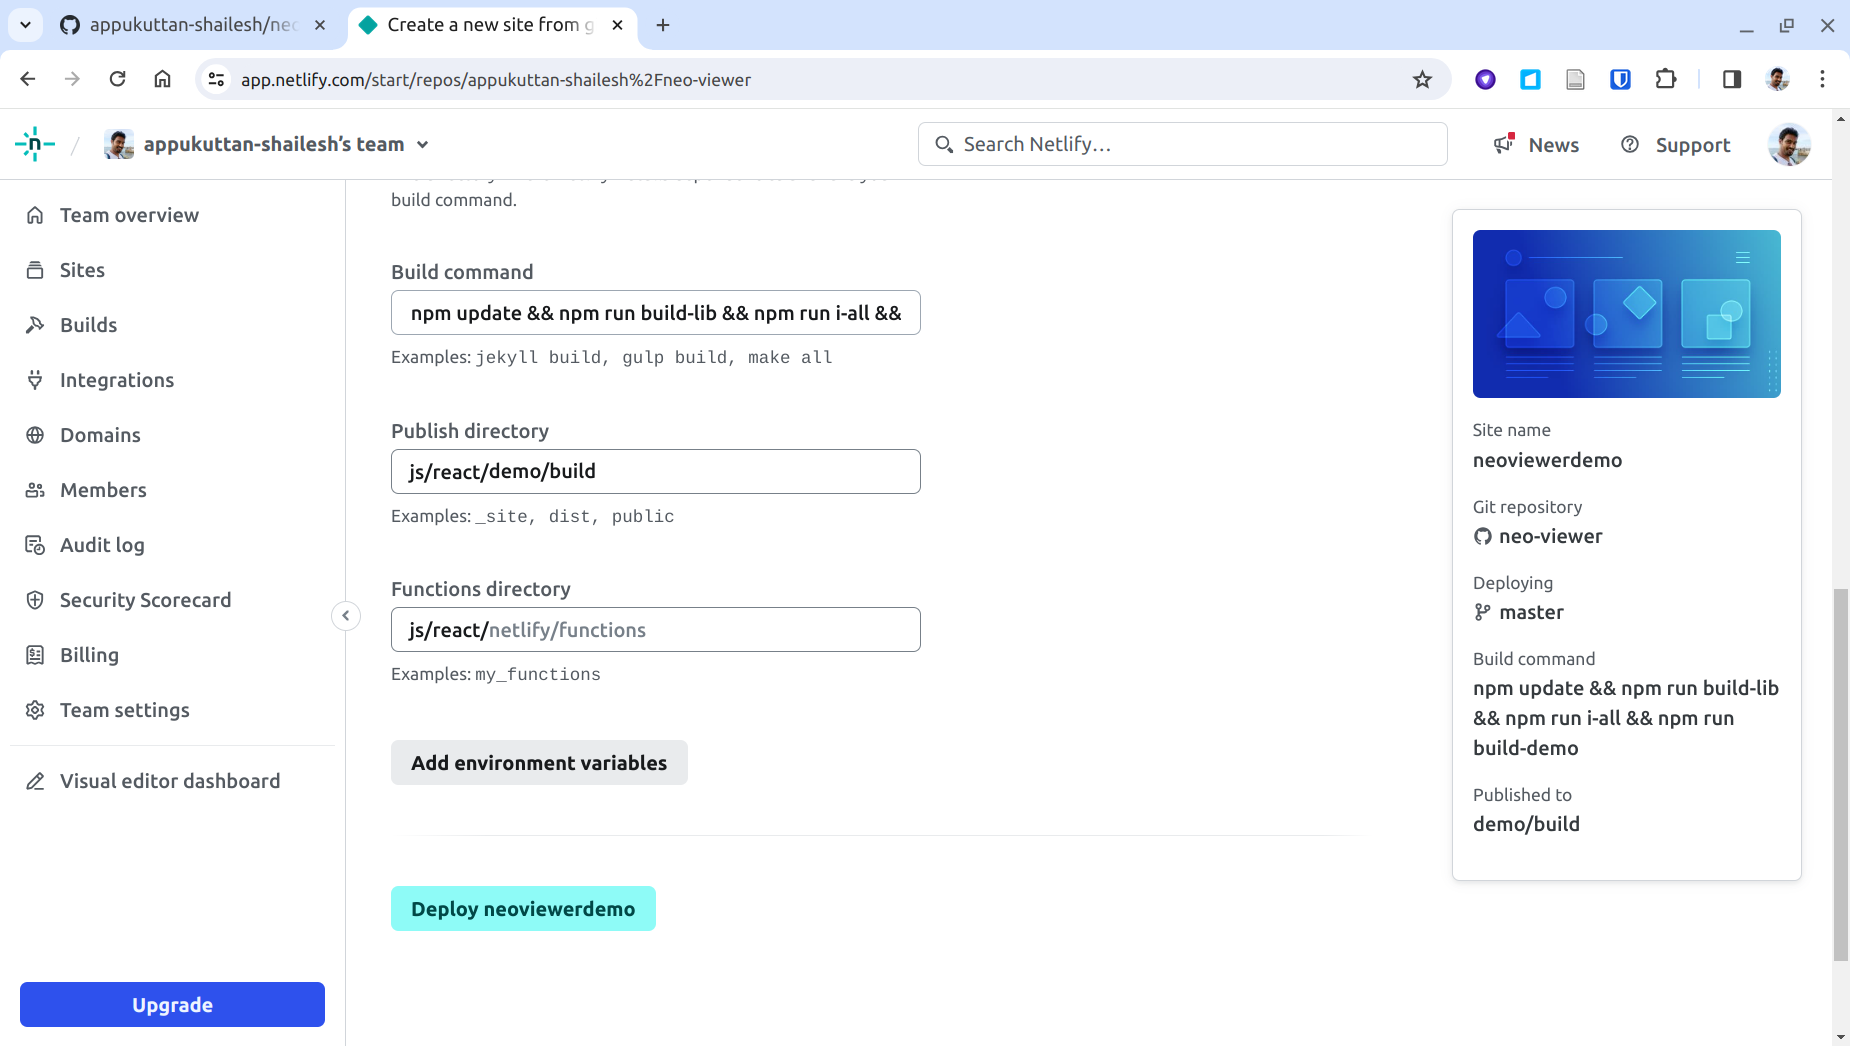
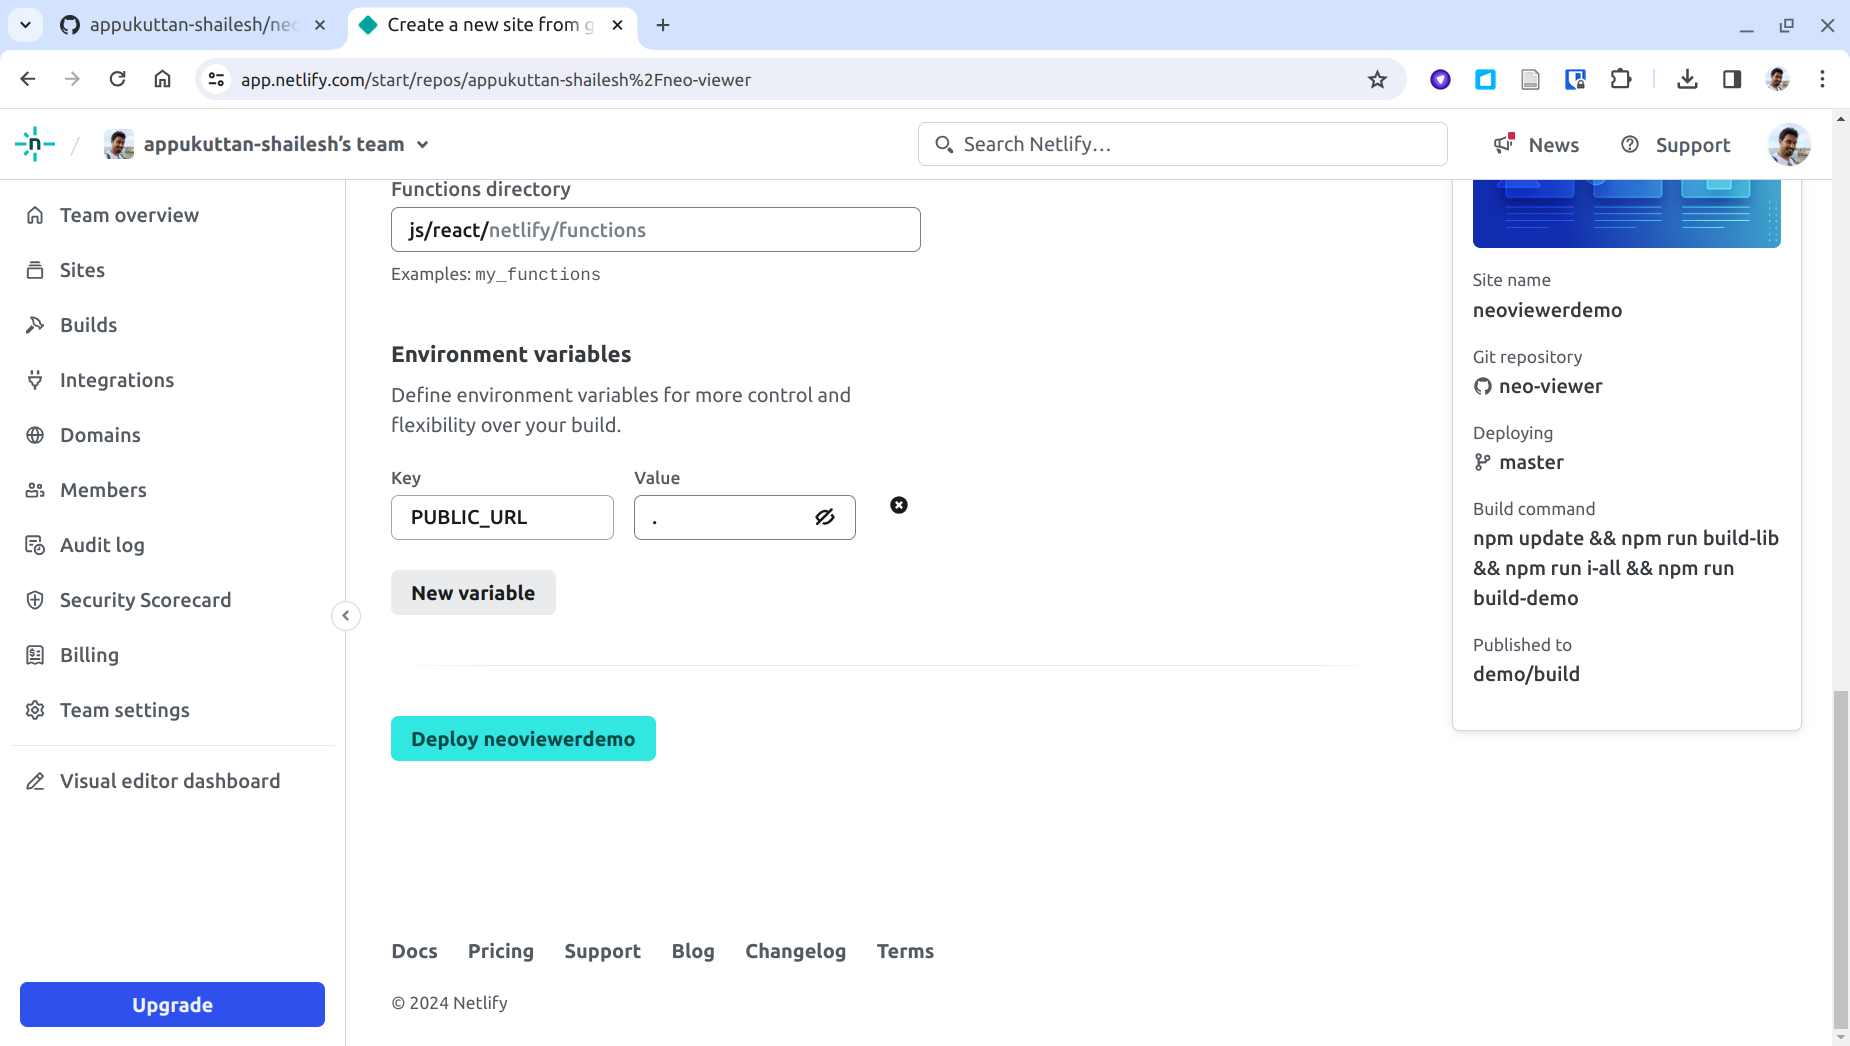
Update guide for react demo

diff --git a/homepage/guide_react_deploy.html b/homepage/guide_react_deploy.html
@@ -191,26 +191,47 @@
 
             <h5 style="line-height: 49.2px">Step 20:</h5>
             <div class="row">
+                Scroll down the page, and click on the 'Add environment variables' button.
+                <img src="./imgs/screenshots/react_demo/img_24_01.png" alt="Deploy app" style="width: 100%; padding: 15px;"/>
+                <br/>
+            </div>
+
+            <h5 style="line-height: 49.2px">Step 21:</h5>
+            <div class="row">
+                Next click on the 'New variable' button that just appeared. This will allow you to add a new environment variable.
+                <img src="./imgs/screenshots/react_demo/img_24_02.png" alt="Deploy app" style="width: 100%; padding: 15px;"/>
+                <br/>
+            </div>
+
+            <h5 style="line-height: 49.2px">Step 22:</h5>
+            <div class="row">
+                A new row will have appeared where you can specify the environment variable. Set the key as <code>PUBLIC_URL</code> and value as <code>.</code> (i.e. just a dot).
+                <img src="./imgs/screenshots/react_demo/img_24_03.png" alt="Deploy app" style="width: 100%; padding: 15px;"/>
+                <br/>
+            </div>
+
+            <h5 style="line-height: 49.2px">Step 23:</h5>
+            <div class="row">
                 Finally, click on 'Deploy SITENAME' (i.e. Deploy neoviewerdemo in this case) at the bottom of the page to deploy the app.
                 <img src="./imgs/screenshots/react_demo/img_25.png" alt="Deploy app" style="width: 100%; padding: 15px;"/>
                 <br/>
             </div>
 
-            <h5 style="line-height: 49.2px">Step 21:</h5>
+            <h5 style="line-height: 49.2px">Step 24:</h5>
             <div class="row">
                 This will take a few minutes to complete. You shall see the deploy status go through various stages, such as 'Starting Up', 'Building', and so on. Once completed successfully, the status will be set as 'published', as shown below. You can now visit the URL of your site (in this case: https://neoviewerdemo.netlify.app) to see the deployed app.
                 <img src="./imgs/screenshots/react_demo/img_27.png" alt="Deploy complete" style="width: 100%; padding: 15px;"/>
                 <br/>
             </div>
 
-            <h5 style="line-height: 49.2px">Step 22:</h5>
+            <h5 style="line-height: 49.2px">Step 25:</h5>
             <div class="row">
                 The deployed app is now available at the specified URL. You can share this URL with others to show them your app. You can also make changes to the app, via changes to your fork of the project's GitHub directory, and redeploy it at any time.
                 <img src="./imgs/screenshots/react_demo/img_28.png" alt="Visit app" style="width: 100%; padding: 15px;"/>
                 <br/>
             </div>
 
-            <h5 style="line-height: 49.2px">Step 23:</h5>
+            <h5 style="line-height: 49.2px">Step 26:</h5>
             <div class="row">
                 As you scroll down, you see the familiar visualization example that was seen in the demo app:
                 <img src="./imgs/screenshots/react_demo/img_29.png" alt="Use app" style="width: 100%; padding: 15px;"/>
